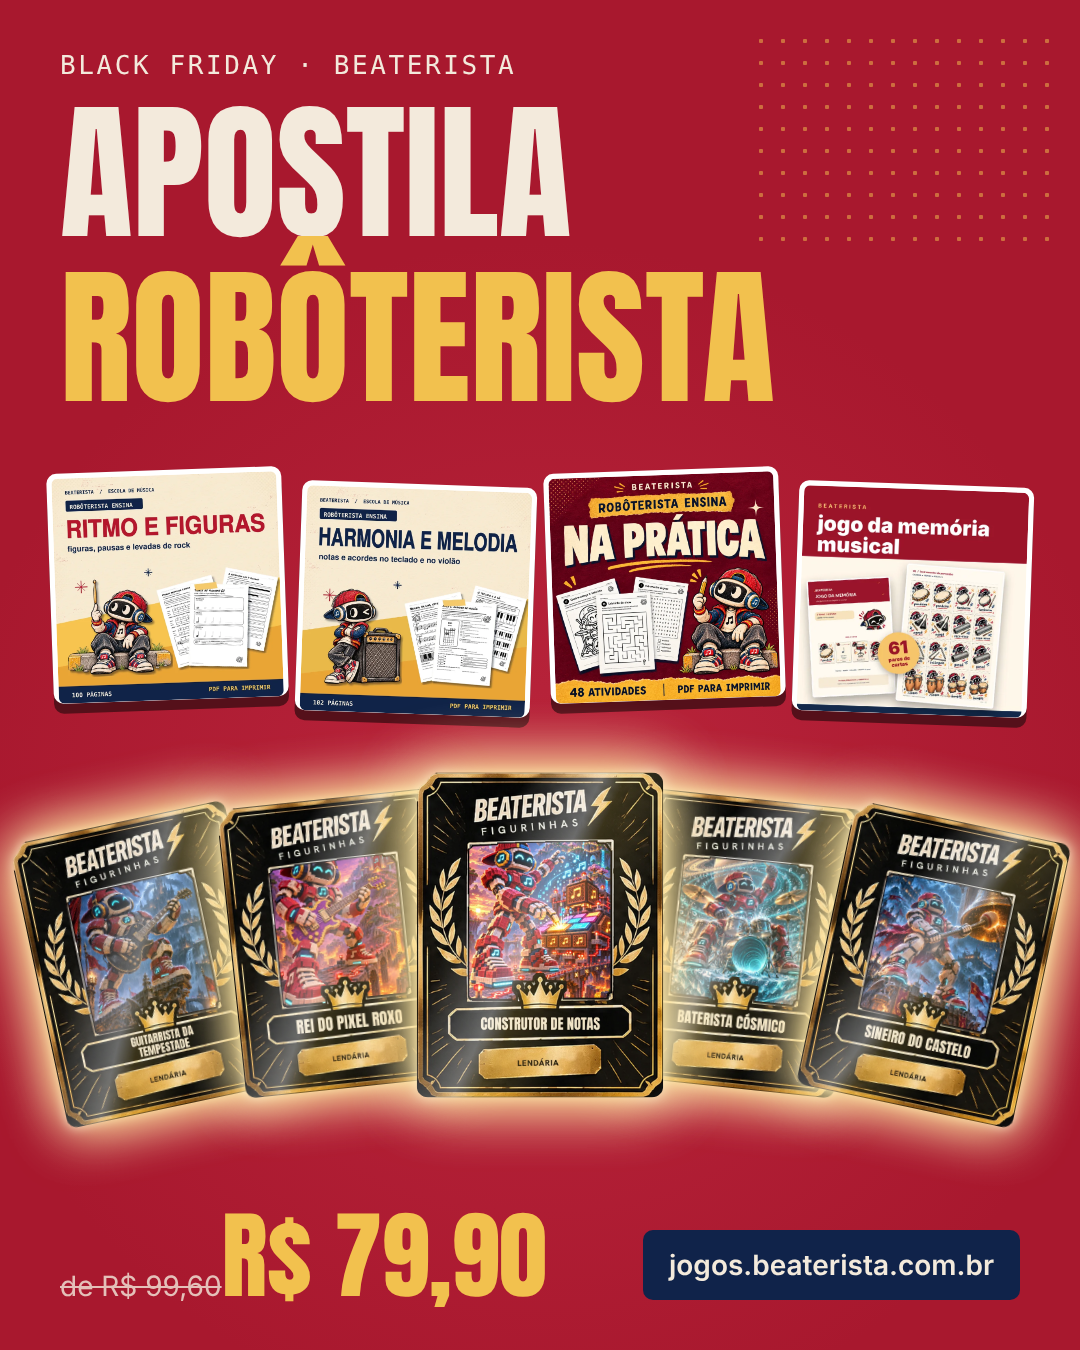
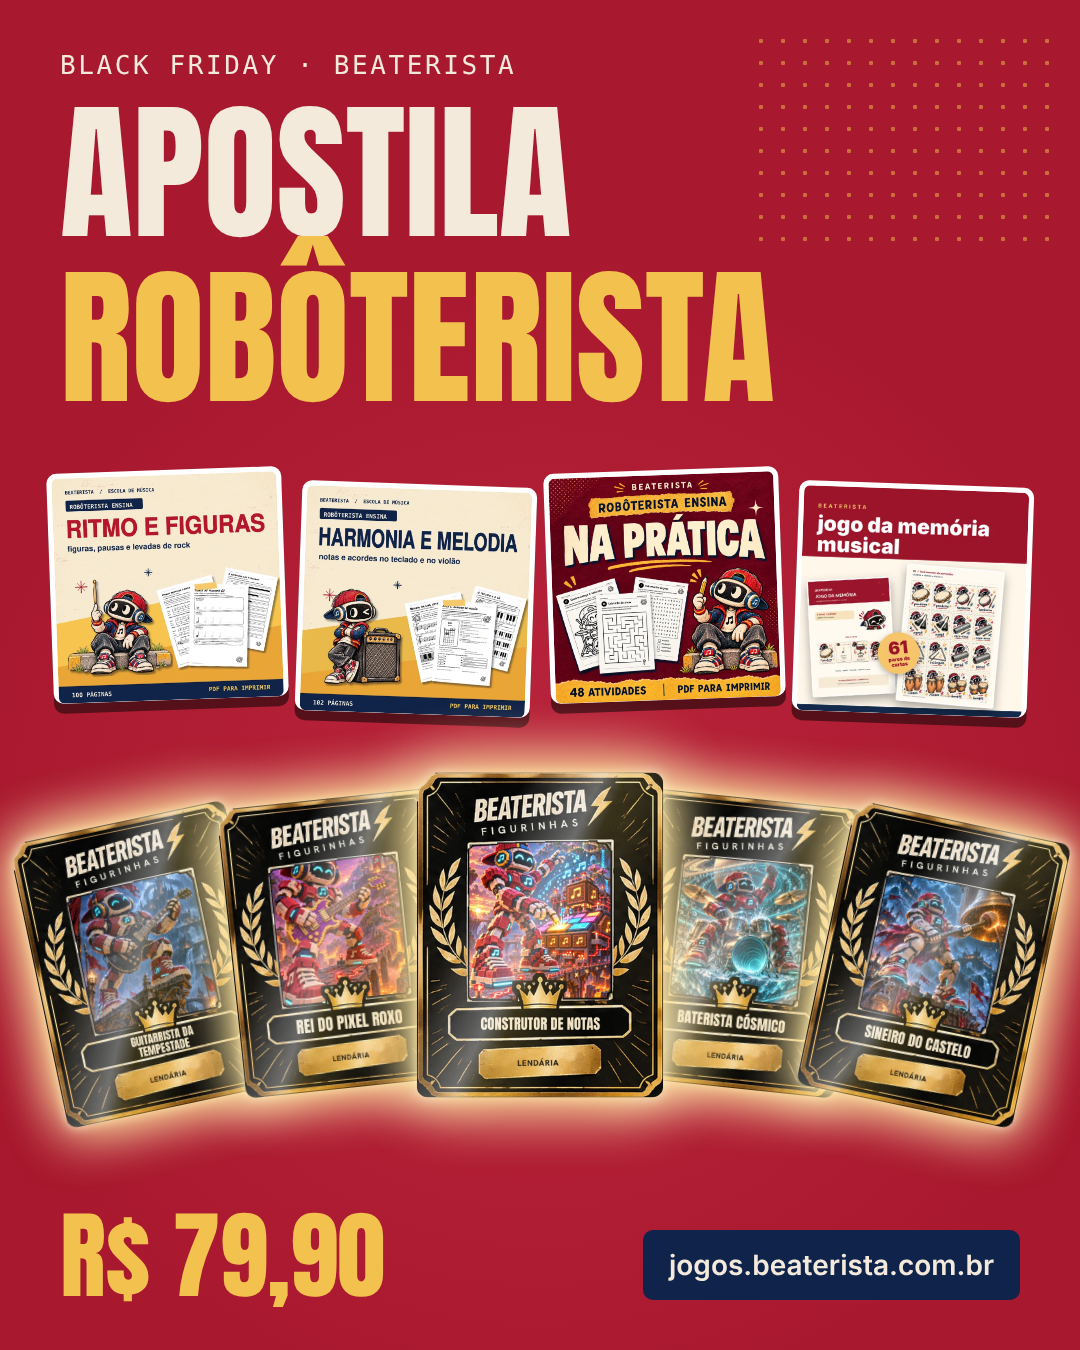
Kit: tira o preço riscado do feed
Claude-Session: https://claude.ai/code/session_017Ekti1GX9ozYE3rJDxhECA

Changed region(s): [[0.0611, 0.8711, 0.5194, 0.9644]]

diff --git a/assets/originals/artes-beaterista/kit-roboterista/arte-feed.html b/assets/originals/artes-beaterista/kit-roboterista/arte-feed.html
@@ -21,5 +21,5 @@ h1{position:absolute;left:60px;top:90px;font-size:150px;line-height:1.1;font-wei
 <div class="prods" style="top:470px"><div><img src="img/ritmo.png"></div><div><img src="img/harmonia.png"></div><div><img src="img/pratica.png"></div><div><img src="img/memoria-quadrada.png"></div></div>
 
 <div class="cards"><div class="c"><img src="lendarias-png/lendaria-01.png"></div><div class="c"><img src="lendarias-png/lendaria-02.png"></div><div class="c"><img src="lendarias-png/lendaria-03.png"></div><div class="c"><img src="lendarias-png/lendaria-04.png"></div><div class="c"><img src="lendarias-png/lendaria-05.png"></div></div>
-<div class="preco"><div><s>de R$ 99,60</s><b>R$ 79,90</b></div></div>
+<div class="preco"><div><b>R$ 79,90</b></div></div>
 <div class="btn">jogos.beaterista.com.br</div></body></html>
